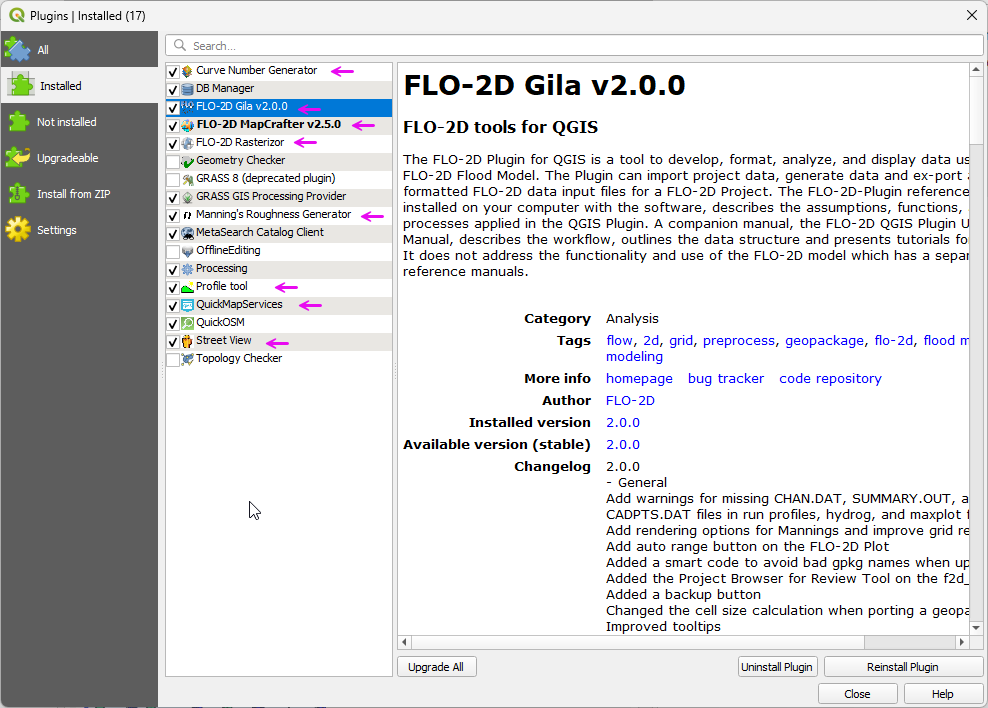
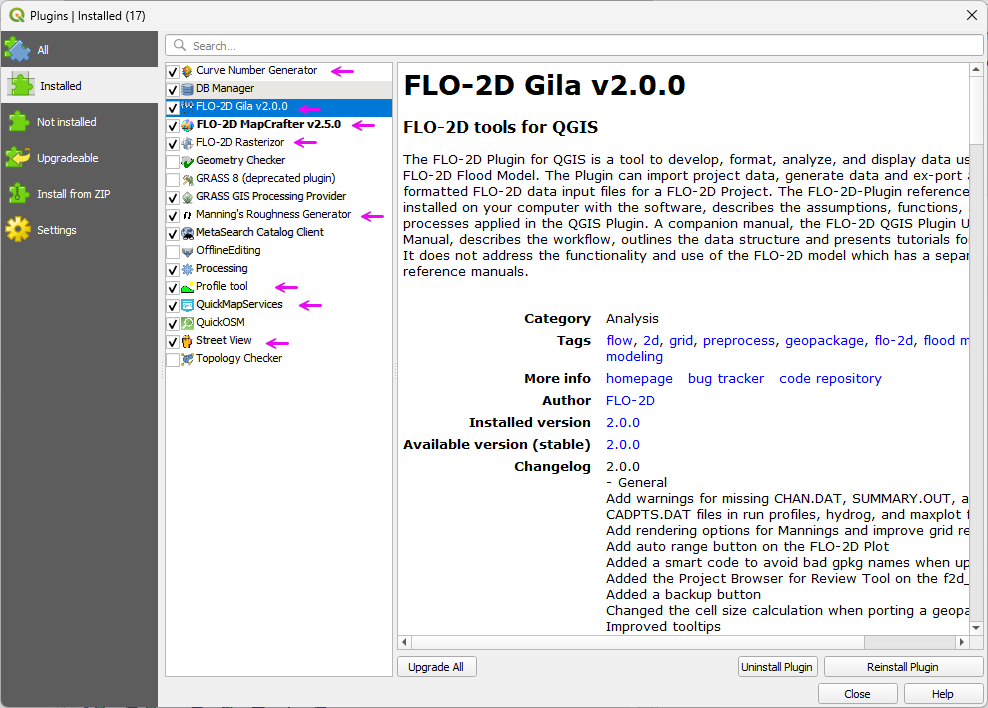
remove image size restrictions

Changed region(s): [[0.1822, 0.1554, 0.3947, 0.4972]]

diff --git a/source/tutorials/hydrowkshp/hydrowkshp.rst b/source/tutorials/hydrowkshp/hydrowkshp.rst
@@ -622,16 +622,13 @@ The plugin developer seems to be very responsive to requests for development.
 .. |hydrow003| image:: ../img/hydrowkshp/hydrow003.png
 
 .. |hydrow004| image:: ../img/hydrowkshp/hydrow004.jpg
-   :width: 6.76389in
-   :height: 2.47569in
+
 .. |hydrow005| image:: ../img/hydrowkshp/hydrow005.jpg
-   :width: 3.02083in
-   :height: 1.59375in
+
 .. |hydrow006| image:: ../img/hydrowkshp/hydrow006.png
 
 .. |hydrow007| image:: ../img/hydrowkshp/hydrow007.jpg
-   :width: 3.35278in
-   :height: 1.59653in
+
 .. |hydrow008| image:: ../img/hydrowkshp/hydrow008.png
 
 .. |hydrow009| image:: ../img/hydrowkshp/hydrow009.jpg
@@ -647,179 +644,118 @@ The plugin developer seems to be very responsive to requests for development.
 .. |hydrow013a| image:: ../img/hydrowkshp/hydrow013a.png
 
 .. |hydrow014| image:: ../img/hydrowkshp/hydrow014.jpg
-   :width: 6.76319in
-   :height: 5.13542in
+
 .. |hydrow015| image:: ../img/hydrowkshp/hydrow015.jpg
-   :width: 3.71667in
-   :height: 3.425in
+
 .. |hydrow016| image:: ../img/hydrowkshp/hydrow016.jpg
-   :width: 6.76389in
-   :height: 6.80625in
+
 .. |hydrow017| image:: ../img/hydrowkshp/hydrow017.jpg
-   :width: 4.99958in
-   :height: 6.37778in
+
 .. |hydrow018| image:: ../img/hydrowkshp/hydrow018.jpg
-   :width: 4.99917in
-   :height: 3.88333in
+
 .. |hydrow019| image:: ../img/hydrowkshp/hydrow019.jpg
-   :width: 5.99861in
-   :height: 4.30194in
+
 .. |hydrow020| image:: ../img/hydrowkshp/hydrow020.jpg
-   :width: 5.34264in
-   :height: 6.55069in
+
 .. |hydrow021| image:: ../img/hydrowkshp/hydrow021.jpg
-   :width: 5in
-   :height: 5.03125in
+
 .. |hydrow022| image:: ../img/hydrowkshp/hydrow022.jpg
-   :width: 4.99917in
-   :height: 4.16597in
+
 .. |hydrow023| image:: ../img/hydrowkshp/hydrow023.jpg
-   :width: 4.99931in
-   :height: 4.12361in
+
 .. |hydrow024| image:: ../img/hydrowkshp/hydrow024.jpg
-   :width: 4.99958in
-   :height: 3.67222in
+
 .. |hydrow025| image:: ../img/hydrowkshp/hydrow025.jpg
-   :width: 4.99931in
-   :height: 4.32069in
+
 .. |hydrow026| image:: ../img/hydrowkshp/hydrow026.png
-   :width: 4.99972in
-   :height: 3.6125in
+
 .. |hydrow027| image:: ../img/hydrowkshp/hydrow027.png
-   :width: 4.99944in
-   :height: 2.50903in
+
 .. |hydrow028| image:: ../img/hydrowkshp/hydrow028.jpg
-   :width: 4.68597in
-   :height: 2.13472in
+
 .. |hydrow029| image:: ../img/hydrowkshp/hydrow029.jpg
-   :width: 4.99986in
-   :height: 3.24722in
+
 .. |hydrow030| image:: ../img/hydrowkshp/hydrow030.jpg
-   :width: 4.99986in
-   :height: 3.3125in
+
 .. |hydrow031| image:: ../img/hydrowkshp/hydrow031.jpg
-   :width: 4.92639in
-   :height: 4.25764in
+
 .. |hydrow032| image:: ../img/hydrowkshp/hydrow032.png
-   :width: 6.76389in
-   :height: 3.89514in
+
 .. |hydrow033| image:: ../img/hydrowkshp/hydrow033.jpg
-   :width: 6.76389in
-   :height: 3.62292in
+
 .. |hydrow034| image:: ../img/hydrowkshp/hydrow034.jpg
-   :width: 4.99986in
-   :height: 2.69861in
+
 .. |hydrow035| image:: ../img/hydrowkshp/hydrow035.jpg
-   :width: 4.99986in
-   :height: 3.13542in
+
 .. |hydrow036| image:: ../img/hydrowkshp/hydrow036.jpg
-   :width: 4.99931in
-   :height: 2.35403in
+
 .. |hydrow037| image:: ../img/hydrowkshp/hydrow037.png
-   :width: 6.76389in
-   :height: 3.44861in
+
 .. |hydrow038| image:: ../img/hydrowkshp/hydrow038.png
-   :width: 6.76389in
-   :height: 3.45417in
+
 .. |hydrow039| image:: ../img/hydrowkshp/hydrow039.jpg
-   :width: 4.99931in
-   :height: 3.13514in
+
 .. |hydrow040| image:: ../img/hydrowkshp/hydrow040.jpg
-   :width: 4.99944in
-   :height: 2.5875in
+
 .. |hydrow041| image:: ../img/hydrowkshp/hydrow041.jpg
-   :width: 6.45347in
-   :height: 3.45403in
+
 .. |hydrow042| image:: ../img/hydrowkshp/hydrow042.jpg
-   :width: 4.99958in
-   :height: 2.36736in
+
 .. |hydrow043| image:: ../img/hydrowkshp/hydrow043.jpg
-   :width: 5in
-   :height: 2.77778in
+
 .. |hydrow044| image:: ../img/hydrowkshp/hydrow044.jpg
-   :width: 4.99917in
-   :height: 2.02431in
+
 .. |hydrow045| image:: ../img/hydrowkshp/hydrow045.jpg
-   :width: 5.33333in
-   :height: 5.24167in
+
 .. |hydrow046| image:: ../img/hydrowkshp/hydrow046.jpg
-   :width: 4.99917in
-   :height: 2.91736in
+
 .. |hydrow047| image:: ../img/hydrowkshp/hydrow047.jpg
-   :width: 4.99903in
-   :height: 3.71389in
+
 .. |hydrow048| image:: ../img/hydrowkshp/hydrow048.jpg
-   :width: 6.38333in
-   :height: 3.75in
+
 .. |hydrow049| image:: ../img/hydrowkshp/hydrow049.jpg
-   :width: 6.76389in
-   :height: 2.87986in
+
 .. |hydrow050| image:: ../img/hydrowkshp/hydrow050.jpg
-   :width: 4.99806in
-   :height: 1.53125in
+
 .. |hydrow051| image:: ../img/hydrowkshp/hydrow051.jpg
-   :width: 4.99806in
-   :height: 1.53125in
+
 .. |hydrow052| image:: ../img/hydrowkshp/hydrow052.jpg
-   :width: 6.76389in
-   :height: 3.91528in
+
 .. |hydrow053| image:: ../img/hydrowkshp/hydrow053.jpg
-   :width: 1.64028in
-   :height: 3.99986in
+
 .. |hydrow054| image:: ../img/hydrowkshp/hydrow054.jpg
-   :width: 3.99167in
-   :height: 4.04167in
+
 .. |hydrow055| image:: ../img/hydrowkshp/hydrow055.jpg
-   :width: 6.76389in
-   :height: 2.52986in
+
 .. |hydrow056| image:: ../img/hydrowkshp/hydrow056.jpg
-   :width: 6.76278in
-   :height: 3.26806in
+
 .. |hydrow057| image:: ../img/hydrowkshp/hydrow057.jpg
-   :width: 4.68333in
-   :height: 2.48333in
+
 .. |hydrow058| image:: ../img/hydrowkshp/hydrow058.jpg
-   :width: 3.8in
-   :height: 4.08333in
+
 .. |hydrow059| image:: ../img/hydrowkshp/hydrow059.jpg
-   :width: 4.99986in
-   :height: 3.13542in
-.. |hydrow060| image:: ../img/hydrowkshp/hydrow060.jpg
-   :width: 4.99972in
-   :height: 3.12153in
+
 .. |hydrow061| image:: ../img/hydrowkshp/hydrow061.jpg
-   :width: 5.19417in
-   :height: 1.31667in
+
 .. |hydrow062| image:: ../img/hydrowkshp/hydrow062.jpg
-   :width: 4.23542in
-   :height: 2.29861in
+
 .. |hydrow063| image:: ../img/hydrowkshp/hydrow063.jpg
-   :width: 4.99917in
-   :height: 2.65in
+
 .. |hydrow064| image:: ../img/hydrowkshp/hydrow064.jpg
-   :width: 4.99986in
-   :height: 1.45069in
+
 .. |hydrow065| image:: ../img/hydrowkshp/hydrow065.jpg
-   :width: 2.88875in
-   :height: 2.22847in
+
 .. |hydrow066| image:: ../img/hydrowkshp/hydrow066.jpg
-   :width: 4.37431in
-   :height: 1.93028in
+
 .. |hydrow067| image:: ../img/hydrowkshp/hydrow067.jpg
-   :width: 4.99944in
-   :height: 4.59028in
+
 .. |hydrow068| image:: ../img/hydrowkshp/hydrow068.jpg
-   :width: 4.62403in
-   :height: 2.93611in
+
 .. |hydrow069| image:: ../img/hydrowkshp/hydrow069.png
-   :width: 5.45625in
-   :height: 3.49167in
+
 .. |hydrow070| image:: ../img/hydrowkshp/hydrow070.jpg
-   :width: 6.49167in
-   :height: 4.13056in
+
 .. |hydrow071| image:: ../img/hydrowkshp/hydrow071.jpg
-   :width: 6.76389in
-   :height: 5.12361in
+
 .. |hydrow072| image:: ../img/hydrowkshp/hydrow072.jpg
-   :width: 6.76389in
-   :height: 3.59375in
+
